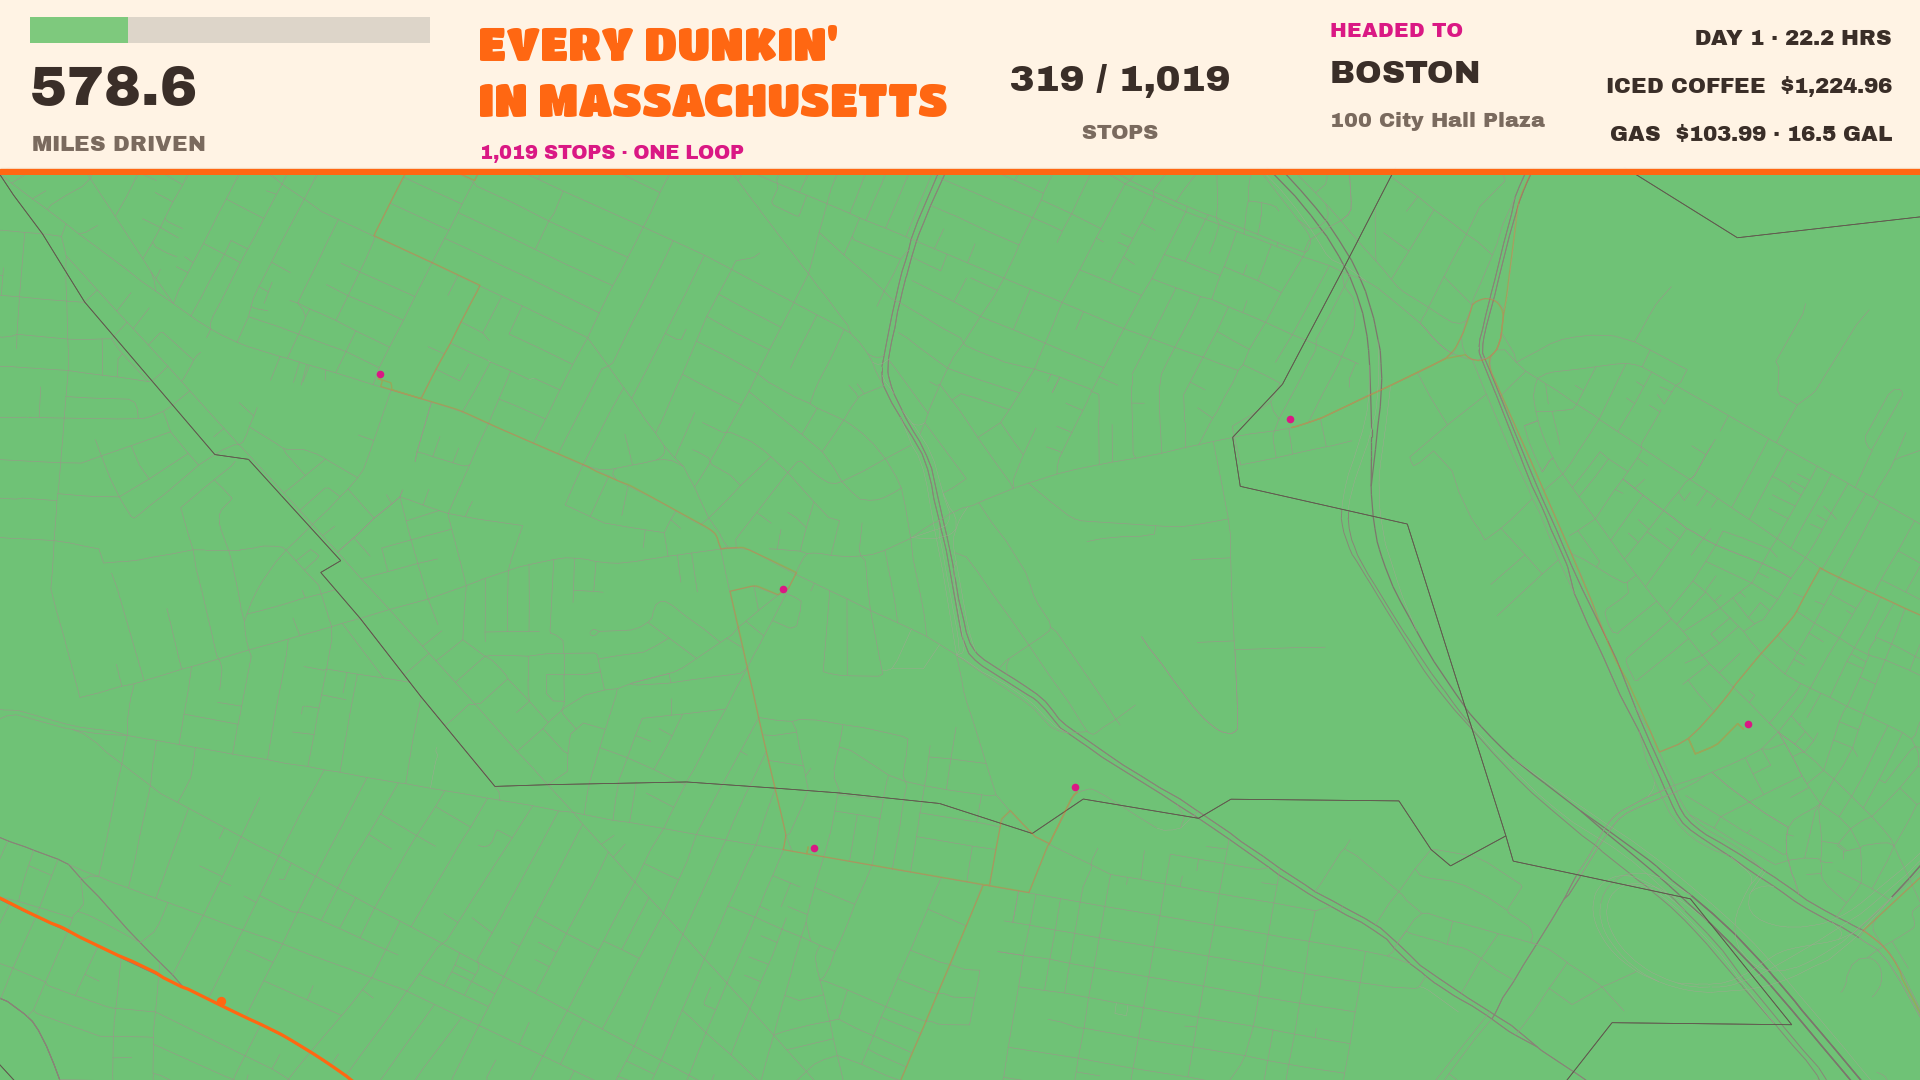
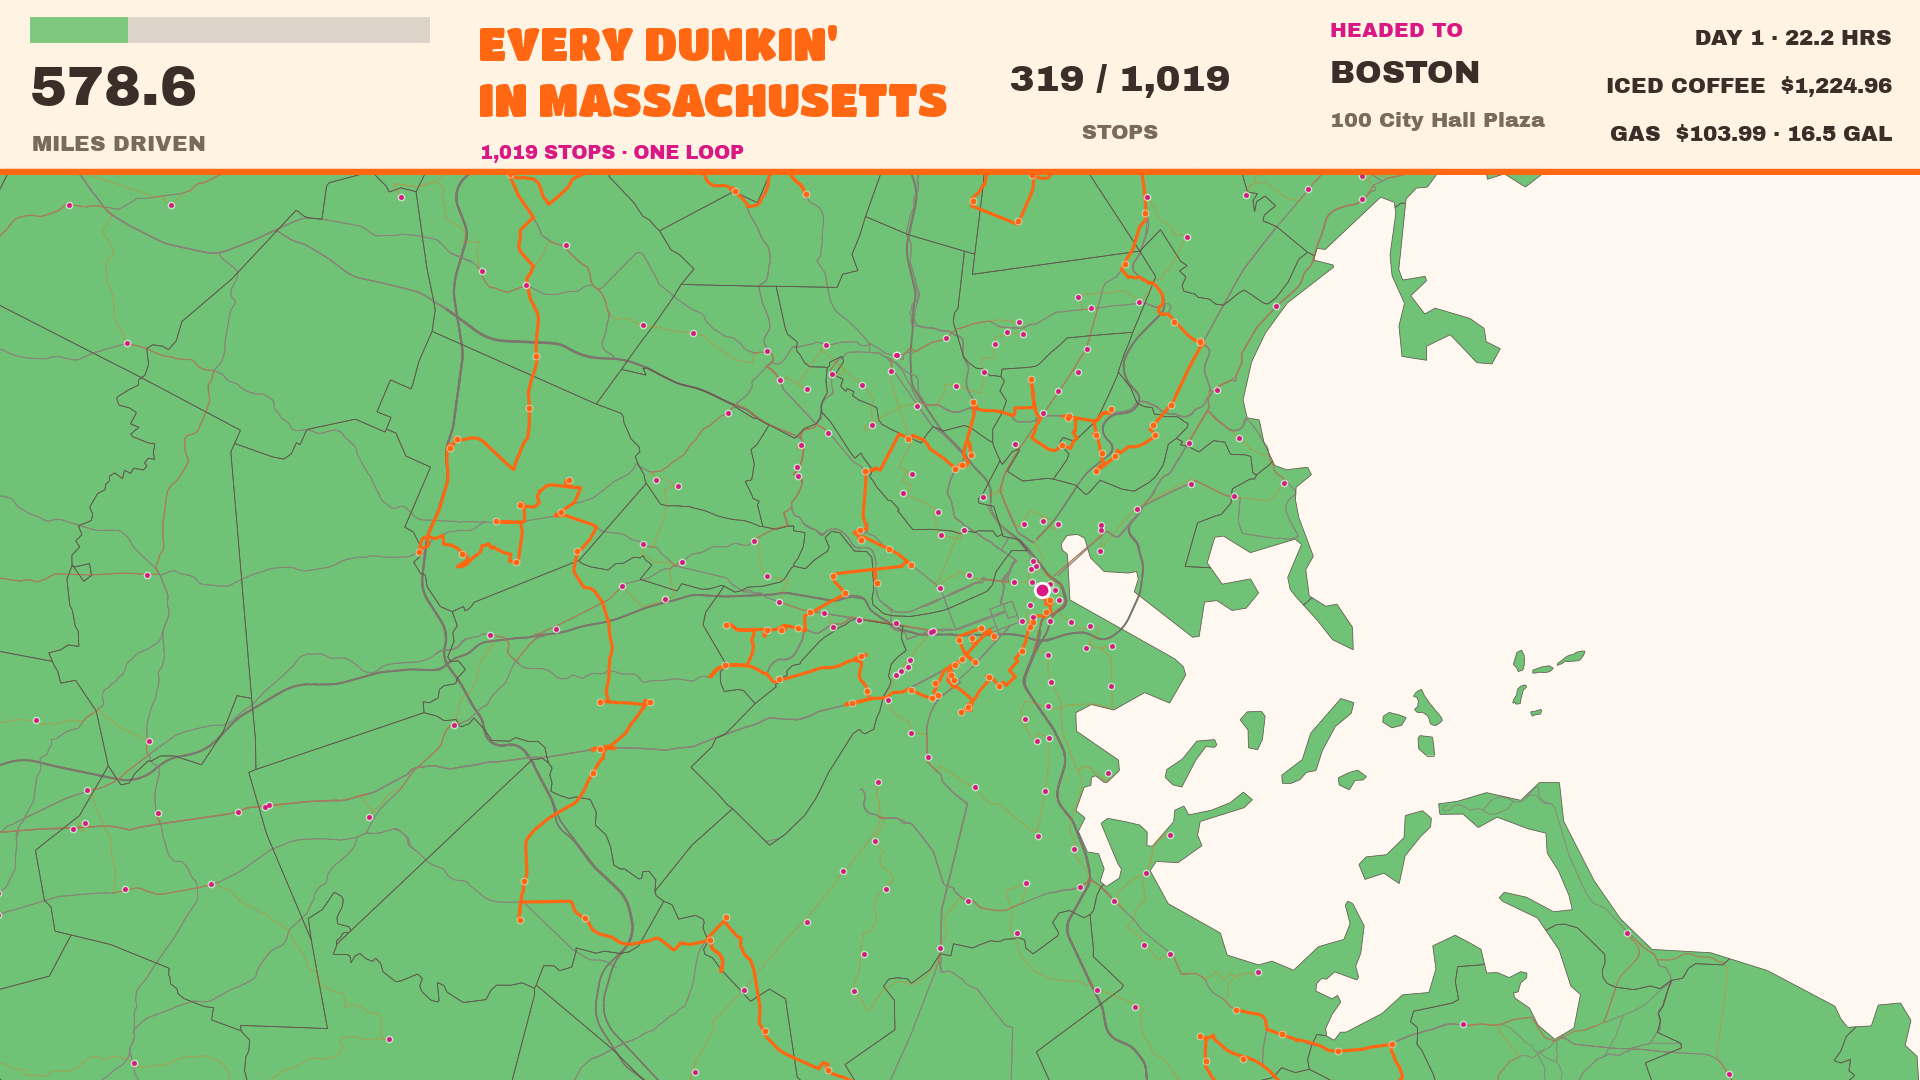
Video v2: visible stop dots, smoother camera zoom, README link and fixes

diff --git a/python/05_video/dashboard.py b/python/05_video/dashboard.py
@@ -196,6 +196,7 @@ def state_camera(stops_xy):
 def camera_path(tl, stops_xy, frames, state_cam):
     """Smoothed camera (cx, cy, width) for every motion frame."""
     cam = state_cam.copy()
+    log_w = float(np.log(cam[2]))
     path = []
     for f in range(frames):
         t_h = tl.total_h * f / (frames - 1)
@@ -207,7 +208,10 @@ def camera_path(tl, stops_xy, frames, state_cam):
         target = np.array([c_t[0], c_t[1], w_t])
         if f > frames - 121:  # final pull-back to the state view
             target = state_cam
-        cam = cam + 0.08 * (target - cam)
+        cam[:2] = cam[:2] + 0.08 * (target[:2] - cam[:2])
+        log_w += 0.03 * (float(np.log(target[2])) - log_w)
+        cam[2] = float(np.exp(log_w))
+
         path.append(cam.copy())
     return path
 
@@ -256,9 +260,13 @@ class Dashboard:
         dx = np.concatenate([p[:, 0] for p in driven])
         dy = np.concatenate([p[:, 1] for p in driven])
         ax.plot(dx, dy, color=ORANGE, linewidth=2.3, zorder=4)
-        dot = float(np.clip(3.4 / w, 2.0, 30.0))
+        dot = float(np.clip(8.0 / w, 9.0, 16.0))
+        ax.scatter(self.stops[:, 0], self.stops[:, 1], s=dot * 2.6,
+                   color="white", zorder=4.6, linewidths=0,
+                   alpha=0.55)
         ax.scatter(self.stops[:, 0], self.stops[:, 1], s=dot,
                    color=PINK, zorder=5, linewidths=0)
+
         vis = self.stops[:st["visited"]]
         ax.scatter(vis[:, 0], vis[:, 1], s=dot * 1.5,
                    color=ORANGE, zorder=6, linewidths=0)

diff --git a/README.md b/README.md
@@ -2,6 +2,7 @@
 Practice project recreating DataDork's "fastest route to every Dunkin'
 in Massachusetts" using open data and a real road network. Practice
 only, concept from DataDork.
+Watch: https://youtu.be/EgDIaHsu0is
 
 ## Dataset definition
 - Definition: Include regular Dunkin's stores, Dunkin's under shared
@@ -20,7 +21,7 @@ only, concept from DataDork.
   counters inside other businesses are under-mapped.
 - True count is hard to pin down. Sources disagree because
   definitions and snapshot dates differ: the reference video used
-  1,028, the officical Dunkin' directory lists 1,035, Google shows ~1,040. Cleaning
+  1,028, the official Dunkin' directory lists 1,035, Google shows ~1,040. Cleaning
   rules will not be adjusted to hit another source's number.
 - Known limit: the directory is a live snapshot from 10/18/2026
   while Overture's release is dated 2026-09-23.1; a small number of
@@ -33,7 +34,7 @@ only, concept from DataDork.
   ending in Quincy. His constants: $3.79 per coffee, gas $407
   (implies 25 MPG at $4.41/gal).
 - This project uses my own constants instead: iced coffee at $3.84, and
-  diesel at $6.29/gal for my 2011 Jetta TDI at an estimated
+  diesel at $6.29/gal for my 2011 Jetta TDi at an estimated
   35 MPG. At the final totals that is $3,912.96 of coffee and
   67.3 gallons of diesel for $423.57.
 - Distances are true road distances throughout (OSRM), not
@@ -44,8 +45,11 @@ only, concept from DataDork.
   the route is final.
 - Finished video: dunkin_tour_final.mp4, 64 seconds at
   1920x1080, the settled loop under the live dashboard with
-  the "Roadrunner" soundtrack. Concept to finished product
-  in just under 24 hours.
+  the "Roadrunner" soundtrack.
+  Watch: https://youtu.be/EgDIaHsu0is
+  (v2, 10/20/2026: stop dots enlarged with a light halo so
+  they stay visible at the full-state view, and the camera
+  zoom re-smoothed to remove the pumping in v1.)
 
 ## Repository layout
 - python/01_pull: the three source pulls (OSM, Overture,
